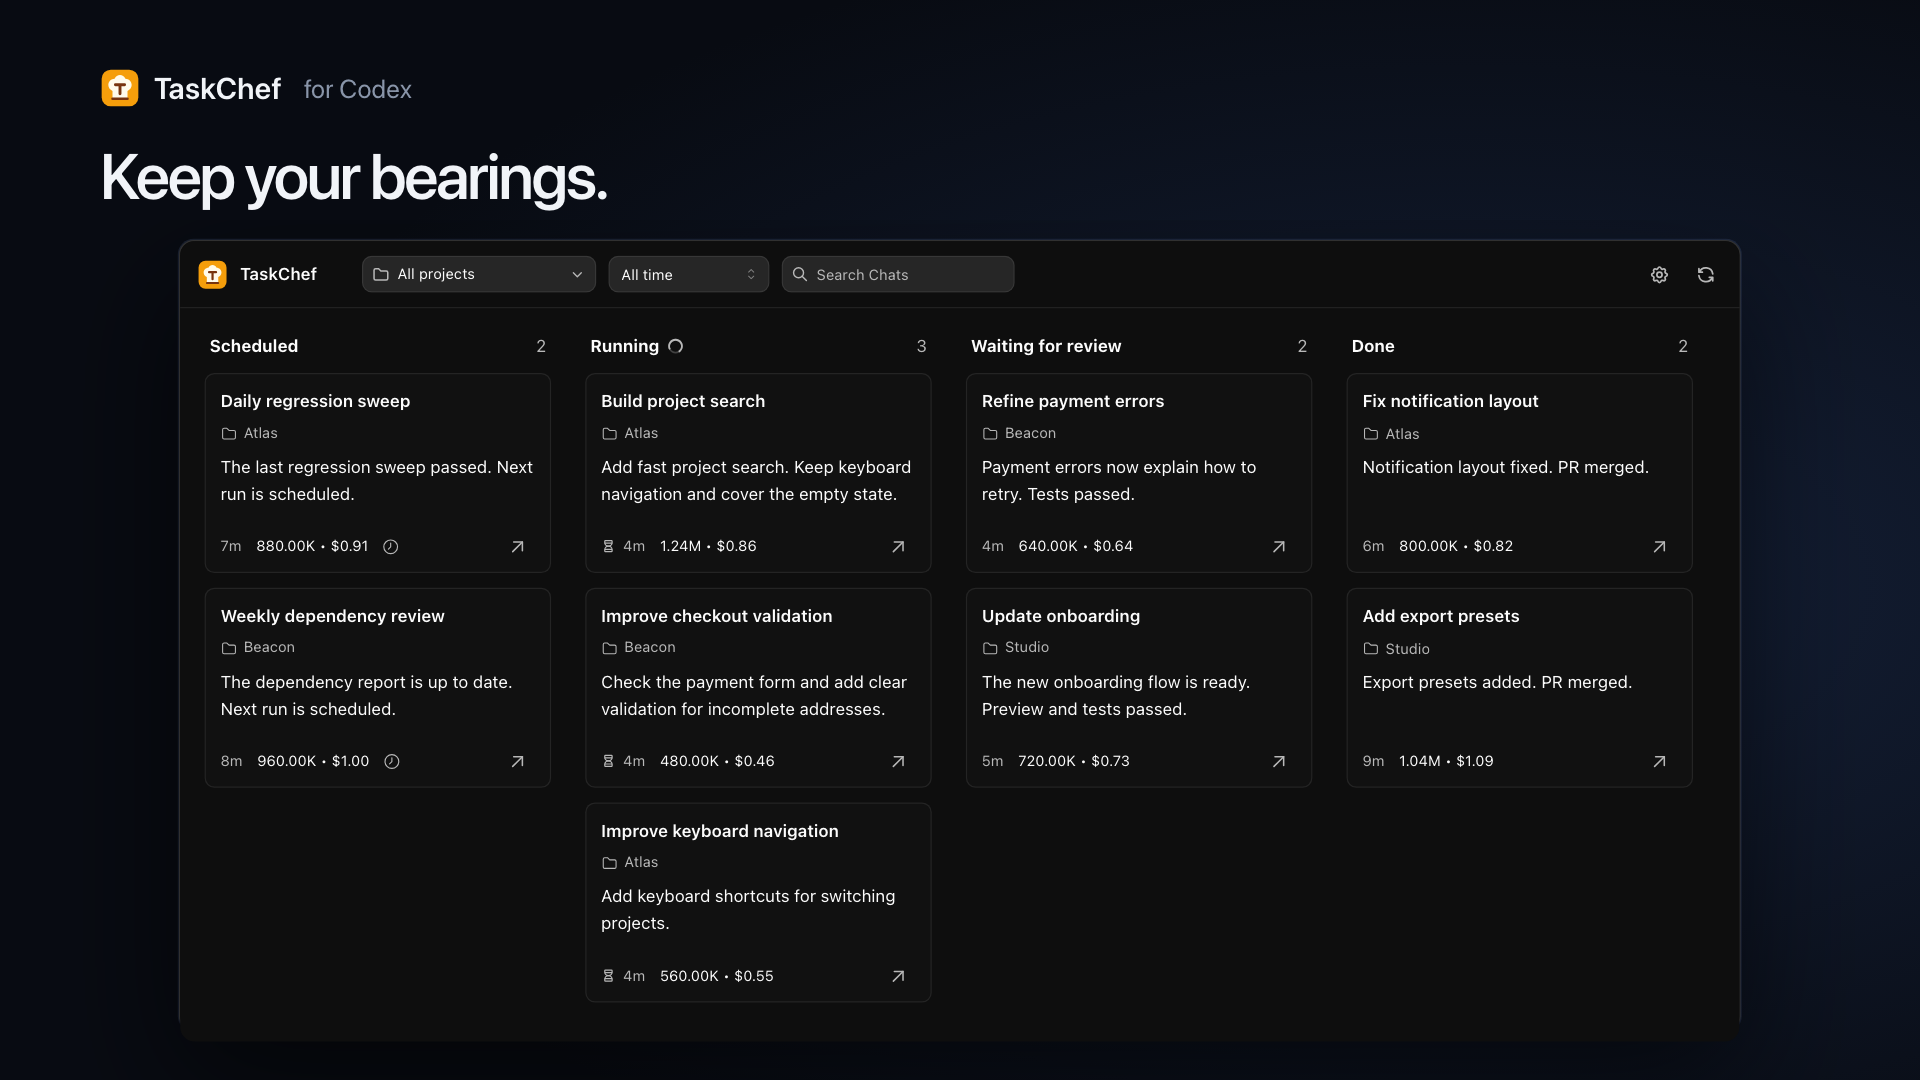
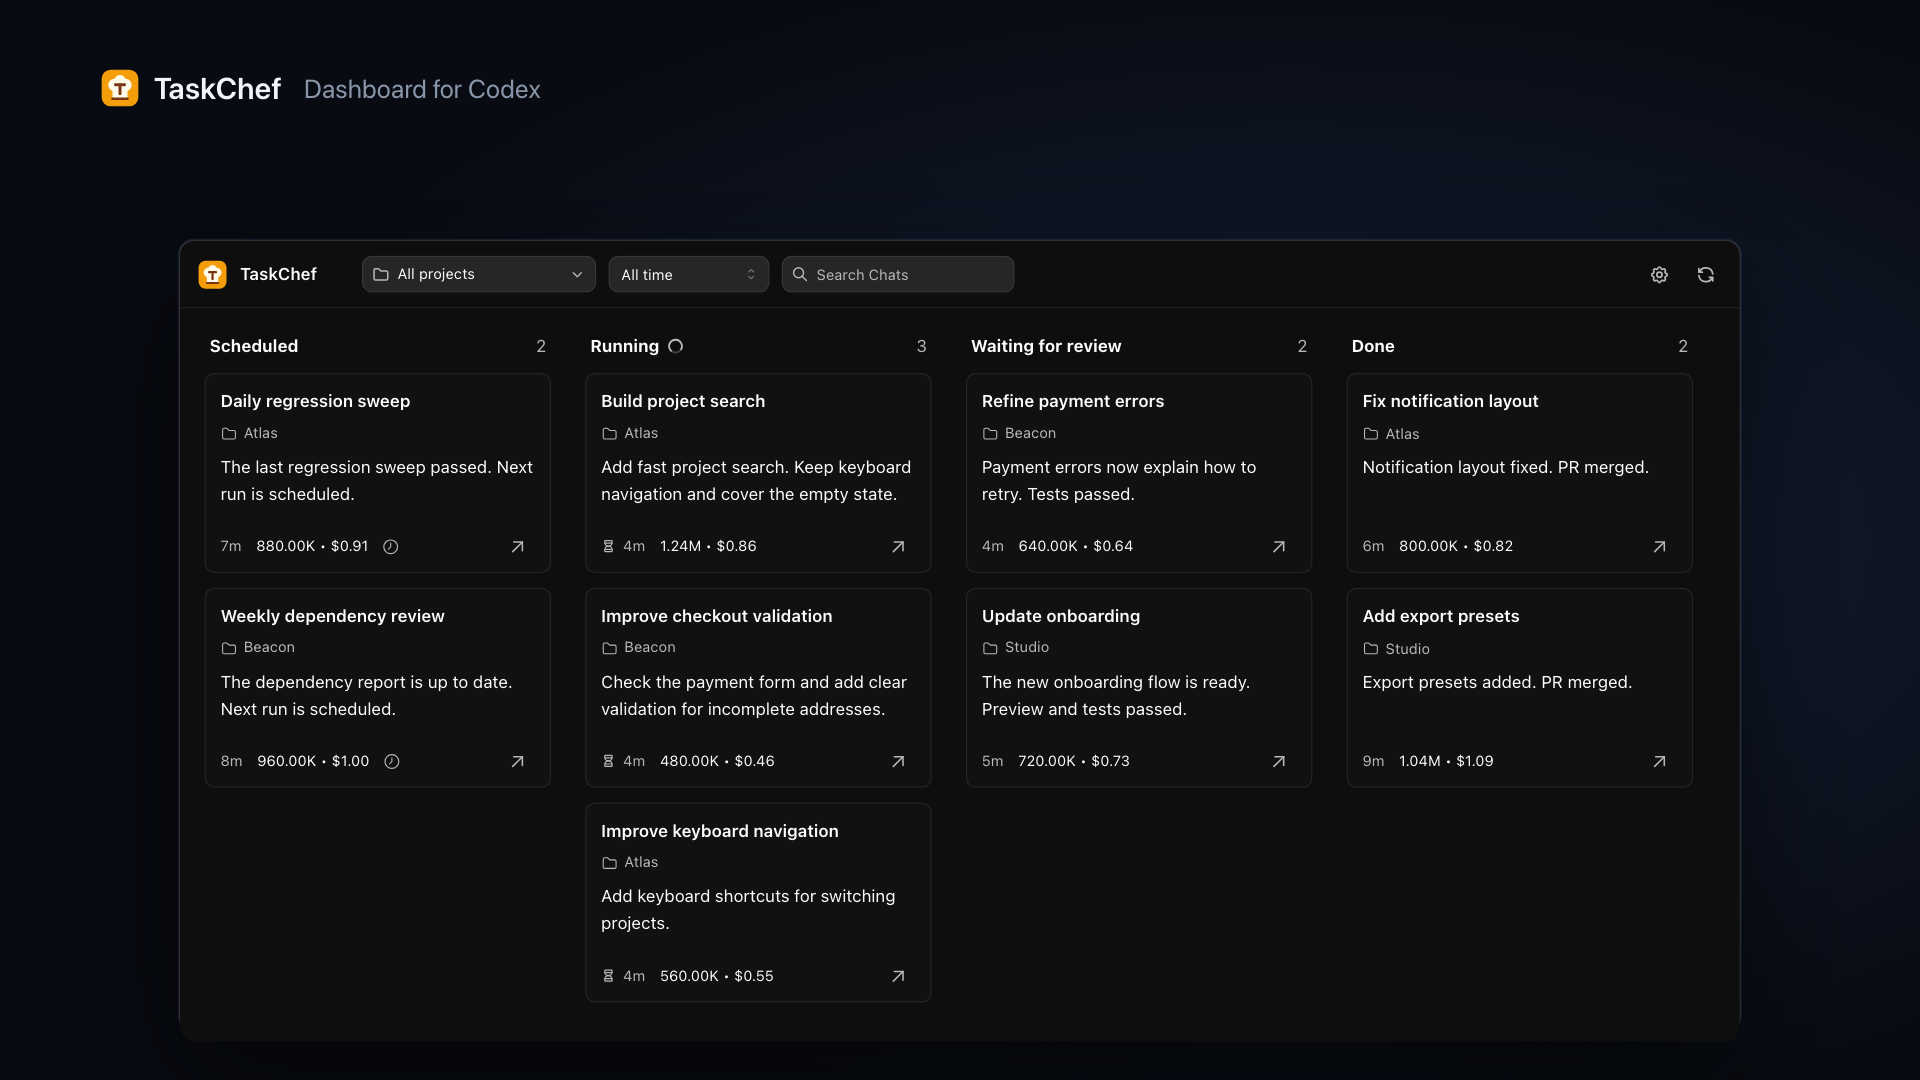
chore(video): refine opening identity and chapter transitions

Changed region(s): [[0.0312, 0.1528, 0.3125, 0.2139], [0.1562, 0.0611, 0.2812, 0.0917]]

diff --git a/video/OpeningStudy.tsx b/video/OpeningStudy.tsx
@@ -28,37 +28,44 @@ export function OpeningStudy() {
   const shot = time < phrase ? 0 : time < phrase * 2 ? 1 : 2;
   const local = frame - shot * phrase * fps;
   const boardStart = phrase * 2;
-  const board = Math.max(0, time - boardStart);
-  const focus = interpolate(board, [0, .75, phrase, phrase + .6, phrase * 2 - .2, phrase * 2 + .55, phrase * 4], [0, 0, 0, 1, 1, 0, 0], { ...clamp, easing: Easing.bezier(.65, 0, .2, 1) });
-  const reveal = interpolate(board, [0, .75], [0, 1], { ...clamp, easing: ease });
-  // Wide shot fits all four lanes and all nine cards. Close-up follows Running.
-  const scale = 1.22 + focus * 1.28;
-  const x = 179 - focus * 945;
-  const y = 20 - focus * 160 + (1 - reveal) * 180;
+  // Title → full board → detail. At nine seconds, carry into the review chapter.
+  const cameraTimes = [boardStart, 4.75, 6.05, 6.65, 7.5, 8.1, 8.85, 9.65, 10.1, 10.65, 11.8];
+  const cameraEase = { ...clamp, easing: Easing.bezier(.65, 0, .2, 1) };
+  const scale = interpolate(time, cameraTimes, [.62, 1.22, 1.22, 2.5, 2.5, 1.22, 1.22, .62, .62, 2.4, 2.4], cameraEase);
+  const x = interpolate(time, cameraTimes, [1050, 179, 179, -766, -766, 179, 179, 1050, 1050, -575, -575], cameraEase);
+  const y = interpolate(time, cameraTimes, [320, 240, 240, 80, 80, 240, 240, 320, 320, 80, 80], cameraEase);
+  const review = time >= 10.65;
+  const move = interpolate(time, [10.65, 11.25], [0, 1], { ...clamp, easing: ease });
+  const nextTitle = time >= 8.85;
+  const titleTime = time - (nextTitle ? 8.85 : boardStart);
   return <AbsoluteFill className="film opening-study" style={themeVariables(visualTheme('codex', 'dark'), 'dark') as CSSProperties}>
-    <Audio name="Tech House vibes — Mixkit" src={staticFile('tech-house-vibes.mp3')} trimBefore={Math.round(1.52 * fps)} durationInFrames={Math.round(phrase * 6 * fps)} premountFor={fps}
-      volume={interpolate(frame, [0, .1 * fps, 11.1 * fps, 11.8 * fps], [0, .8, .8, 0], clamp)} />
+    <Audio
+      name="Tech House vibes — Mixkit"
+      src={staticFile('tech-house-vibes.mp3')}
+      trimBefore={Math.round(1.52 * fps)}
+      durationInFrames={Math.round(phrase * 6 * fps)}
+      premountFor={fps}
+      volume={interpolate(frame, [0, .1 * fps, 11.1 * fps, 11.8 * fps], [0, .8, .8, 0], clamp)}
+    />
     <div className="opening-halo" style={{ translate: `${Math.sin(time * .7) * 90}px ${Math.cos(time * .5) * 35}px`, scale: 1 + Math.sin(time * .8) * .08 }} />
-    <div className="opening-brand"><Img src={staticFile('taskchef-dark.svg')} alt="" />TaskChef <span>for Codex</span></div>
+    {shot !== 0 && <div className="opening-brand"><Img src={staticFile('taskchef-dark.svg')} alt="" />TaskChef <span>Dashboard for Codex</span></div>}
     {shot < 2 && <>
       <div className="opening-type" key={shot} style={{ opacity: interpolate(local, [0, .12 * fps, (phrase - .12) * fps, phrase * fps], [0, 1, 1, 0], clamp),
         translate: `0 ${interpolate(local, [0, .45 * fps], [80, 0], { ...clamp, easing: ease })}px`,
         scale: interpolate(local, [0, phrase * fps], [1.06, 1], { ...clamp, easing: ease }) }}>
-        {shot === 0 ? <>More<br /><span>projects.</span></> : <>All<br /><span>moving.</span></>}
-      </div>
-      <div className="opening-projects" style={{ opacity: interpolate(local, [.1 * fps, .35 * fps], [0, 1], clamp), translate: `${interpolate(local, [0, phrase * fps], [60, -30], clamp)}px 0` }}>
-        <span>Atlas</span><span>Beacon</span><span>Studio</span>
+        {shot === 0 ? <div className="opening-identity"><div><Img src={staticFile('taskchef-dark.svg')} alt="" /><span>TaskChef</span></div><p>Dashboard for Codex</p></div> : <>Every project.<br /><span>In view.</span></>}
       </div>
       <div className="opening-rails" style={{ rotate: `${shot === 0 ? -12 : 12}deg`, translate: `${interpolate(local, [0, phrase * fps], [-240, 160], clamp)}px 0` }}><i /><i /><i /></div>
       <FloatingChats time={time} shot={shot} />
     </>}
     <div className="opening-board-mask" style={{ opacity: shot === 2 ? 1 : 0 }}>
-      <div className="opening-board-stage" inert style={{ left: x, top: y, scale, rotate: `${(1 - reveal) * -5}deg`, opacity: reveal }}>
-        <ProductBoard phase="running" />
+      <div className="opening-board-stage" inert style={{ left: x, top: y, scale, rotate: `${interpolate(time, [boardStart, 4.75], [-4, 0], { ...clamp, easing: ease })}deg` }}>
+        <ProductBoard phase={review ? 'review' : 'running'} moveProgress={review ? move : undefined} />
       </div>
     </div>
-    {shot === 2 && <div className="opening-board-title" style={{ opacity: interpolate(board, [0, .2], [0, 1], clamp), translate: `0 ${interpolate(board, [0, .6], [35, 0], { ...clamp, easing: ease })}px` }}>
-      {time < phrase * 3 ? 'One clear view.' : time < phrase * 4 ? 'See what’s running.' : 'Keep your bearings.'}
+    {shot === 2 && <div className="opening-section-title" style={{ opacity: interpolate(titleTime, [0, .15, nextTitle ? 1.05 : .55, nextTitle ? 1.45 : 1], [0, 1, 1, 0], clamp),
+      translate: `${interpolate(titleTime, [0, .4, nextTitle ? 1.05 : .55, nextTitle ? 1.45 : 1], [40, 0, 0, -110], { ...clamp, easing: ease })}px 0` }}>
+      {nextTitle ? <>Ready for<br /><span>review.</span></> : <>See what’s<br /><span>running.</span></>}
     </div>}
   </AbsoluteFill>;
 }

diff --git a/video/film.css b/video/film.css
@@ -36,16 +36,19 @@
 .opening-brand { position: absolute; z-index: 4; left: 100px; top: 65px; display: flex; align-items: center; gap: 14px; font-size: 30px; font-weight: 600; }
 .opening-brand img { width: 40px; height: 40px; }
 .opening-brand span { color: #8995a9; font-size: 26px; font-weight: 400; margin-left: 8px; }
-.opening-type { position: absolute; z-index: 3; left: 180px; top: 250px; font-size: 180px; line-height: .96; letter-spacing: -10px; font-weight: 650; }
+.opening-type { position: absolute; z-index: 3; left: 180px; top: 340px; font-size: 144px; line-height: 1.03; letter-spacing: -7px; font-weight: 650; }
 .opening-type span { color: #a9cbff; }
-.opening-projects { position: absolute; z-index: 3; left: 190px; top: 735px; display: flex; gap: 18px; font-size: 32px; color: #b9c5d7; }
-.opening-projects span { padding: 16px 30px; border: 1px solid #8191a938; border-radius: 80px; background: #141e30; }
+.opening-identity > div { display: flex; align-items: center; gap: 24px; }
+.opening-identity img { width: 138px; height: 138px; }
+.opening-identity > div span { color: #f1f4f8; font-size: 174px; }
+.opening-identity p { color: #a9cbff; font-size: 72px; letter-spacing: -2.5px; font-weight: 450; margin: 32px 0 0; }
 .opening-rails { position: absolute; left: 1000px; top: -100px; display: flex; gap: 36px; }
 .opening-rails i { display: block; width: 130px; height: 1500px; background: linear-gradient(#689bd908, #6099f02b, #6099f005); border: 1px solid #84a7d516; border-radius: 80px; }
-.opening-board-mask { position: absolute; inset: 220px 0 0; overflow: hidden; }
+.opening-board-mask { position: absolute; inset: 0; overflow: hidden; }
 .opening-board-stage { position: absolute; width: 1280px; height: 648px; transform-origin: top left; pointer-events: none; }
 .opening-board-stage .film-product { box-shadow: 0 40px 100px #0009, 0 0 0 1px #8eaffb22; }
-.opening-board-title { position: absolute; z-index: 3; left: 100px; top: 140px; font-size: 64px; line-height: 1.1; font-weight: 550; letter-spacing: -2.5px; }
+.opening-section-title { position: absolute; z-index: 3; left: 100px; top: 330px; font-size: 144px; line-height: 1.03; font-weight: 600; letter-spacing: -6px; }
+.opening-section-title span { color: #a9cbff; }
 .opening-fragment { position: absolute; width: 300px; height: 164px; scale: 1.2; transform-origin: top left; pointer-events: none; }
 .opening-fragment .film-product { width: 300px; height: 164px; border: 0; background: transparent; }
 .opening-fragment .taskchef-app-shell { min-height: 0; background: transparent; }

diff --git a/docs/launch/opening-study.md b/docs/launch/opening-study.md
@@ -19,11 +19,13 @@ continues to export the full film. This review deliverable is the Studio preview
 
 | Time | Picture |
 | --- | --- |
-| 0–1.97s | “More projects.” Large type enters; three native Running cards float into the frame. |
-| 1.97–3.93s | “All moving.” A fast title cut changes the rhythm and card positions. |
-| 3.93–5.90s | “One clear view.” The actual board arrives and settles, including Scheduled and nine chats. |
-| 5.90–7.87s | “See what’s running.” Camera pushes into Running. |
-| 7.87–11.80s | “Keep your bearings.” Camera pulls back; all nine chats remain visible for the closing hold. |
+| 0–1.97s | Large logo and “TaskChef — Dashboard for Codex.” Three native Running cards float on the right. |
+| 1.97–3.93s | “Every project. In view.” A short statement of the board’s value; no example project-name tags. |
+| 3.93–4.93s | Large “See what’s running” on the left, board on the right. The title exits while the board grows into full view. |
+| 4.75–6.05s | Full board, including Scheduled and all nine chats. |
+| 6.05–8.10s | Push into Running, brief hold, then pull back to the board. |
+| 8.85–10.30s | Move into the next chapter: large “Ready for review” on the left; the board recedes to the right. |
+| 10.10–11.80s | Move into the review columns; the featured chat finishes and moves into Waiting for review. |
 
 All data is synthetic. Native `TaskBoard`, project picker, controls, mark,
 theme and card styling come from product code. Film typography and camera
@@ -31,10 +33,12 @@ motion are separate from product behavior. No screen recording is used.
 
 ## Pacing
 
-The approximately two-second phrases follow four musical beats at about
-122 BPM. This is an editorial choice, not a universal industry standard.
+The opening identity and slogan follow four-beat phrases at about 122 BPM.
+Camera and title transitions then overlap to keep the edit moving. This is
+an editorial choice, not a universal industry standard.
 Google recommends early action, tight framing, large text and faster pacing
-for video ads. The longer final hold lets viewers read the board.
+for video ads. Wide views show the full board; the next chapter begins before
+nine seconds, without a long static ending.
 
 [Google creative guidance](https://business.google.com/de/think/search-and-video/aufmerksamkeit-gewinnen-youtube-ads/)
 
